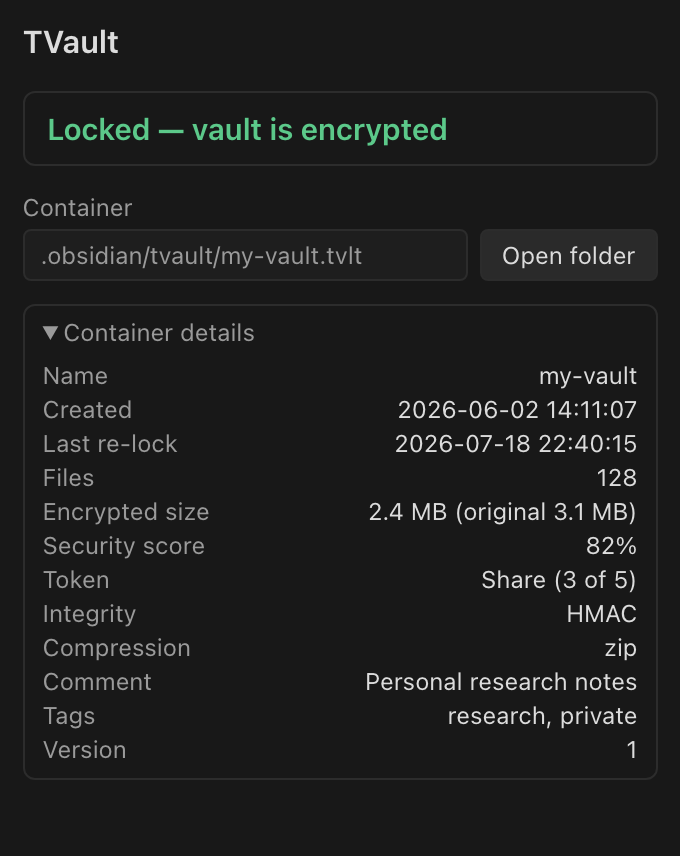
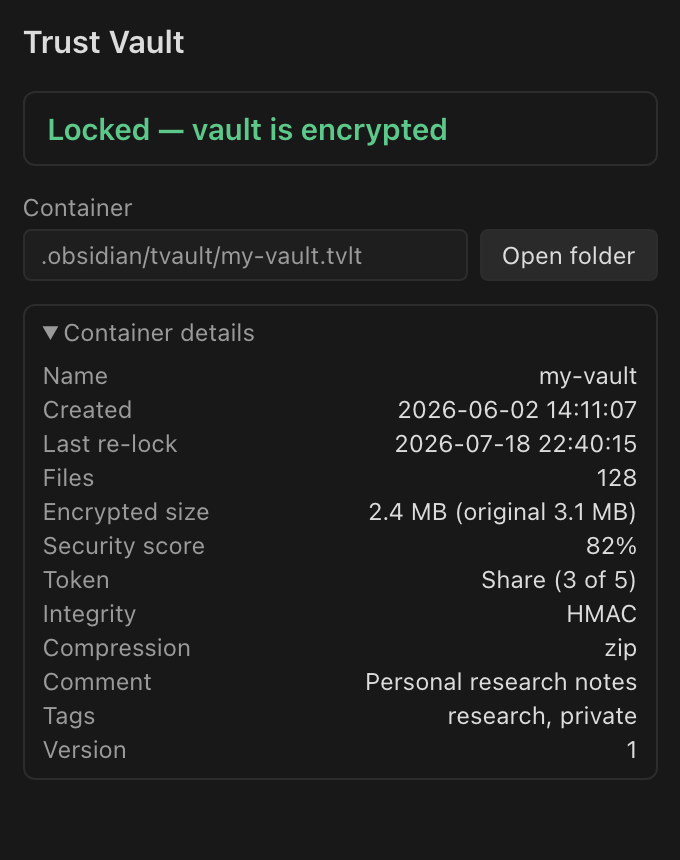
Release 0.2.3: display name "Trust Vault" (two words) + refreshed screenshots

diff --git a/src/plugin.ts b/src/plugin.ts
@@ -48,14 +48,14 @@ export default class TVaultPlugin extends Plugin {
   async onload(): Promise<void> {
     await this.loadSettings();
     this.statusEl = this.addStatusBarItem();
-    this.setStatus("TrustVault: ready");
+    this.setStatus("Trust Vault: ready");
 
     // Recover notes left in staging by an interrupted lock before anything else
     // touches the vault.
     await this.recoverStage();
 
     this.registerView(VIEW_TYPE_TVAULT, (leaf) => new TVaultView(leaf, this));
-    this.addRibbonIcon("shield", "Open TrustVault panel", () => {
+    this.addRibbonIcon("shield", "Open Trust Vault panel", () => {
       void this.activateView();
     });
 
@@ -103,7 +103,7 @@ export default class TVaultPlugin extends Plugin {
     if (!leaf) {
       const right = workspace.getRightLeaf(false);
       if (!right) {
-        new Notice("TrustVault: unable to open side panel");
+        new Notice("Trust Vault: unable to open side panel");
         return;
       }
       leaf = right;
@@ -199,12 +199,12 @@ export default class TVaultPlugin extends Plugin {
     }
     try {
       await unstageNotes(vaultPath);
-      new Notice("TrustVault: recovered notes from an interrupted lock");
+      new Notice("Trust Vault: recovered notes from an interrupted lock");
     } catch (error) {
       const message = errorMessage(error);
       // Persistent notice (timeout 0): the user must resolve this before data is safe.
-      new Notice(`TrustVault: could not fully recover staged notes — ${message}`, 0);
-      console.error("TrustVault recoverStage failed", error);
+      new Notice(`Trust Vault: could not fully recover staged notes — ${message}`, 0);
+      console.error("Trust Vault recoverStage failed", error);
     }
   }
 
@@ -218,7 +218,7 @@ export default class TVaultPlugin extends Plugin {
     try {
       await this.app.vault.adapter.write(this.statePath(), JSON.stringify(state, null, 2));
     } catch (error) {
-      console.error("TrustVault: failed to write state", error);
+      console.error("Trust Vault: failed to write state", error);
     }
   }
 
@@ -354,13 +354,13 @@ export default class TVaultPlugin extends Plugin {
     const cli = await this.resolveCli();
     const args = buildArgs(spec, vaultPath, containerPath);
 
-    this.setStatus(`TrustVault: ${spec.operation} 0%`);
+    this.setStatus(`Trust Vault: ${spec.operation} 0%`);
     try {
       const stdout = await this.spawnCli(cli, args, spec.folderPathOverride ?? vaultPath, spec);
-      this.setStatus(`TrustVault: ${spec.operation} done`);
+      this.setStatus(`Trust Vault: ${spec.operation} done`);
       return { tokens: extractTokenList(stdout), stdout };
     } catch (error) {
-      this.setStatus("TrustVault: error");
+      this.setStatus("Trust Vault: error");
       throw error;
     }
   }
@@ -370,7 +370,7 @@ export default class TVaultPlugin extends Plugin {
   // both proceed.
   private async withLock<T>(fn: () => Promise<T>): Promise<T> {
     if (this.running) {
-      throw new Error("A TrustVault operation is already running");
+      throw new Error("A Trust Vault operation is already running");
     }
     this.running = true;
     try {
@@ -402,7 +402,7 @@ export default class TVaultPlugin extends Plugin {
           const match = /^PROGRESS\s+(\d{1,3})$/.exec(line.trim());
           if (match) {
             const percent = Number.parseInt(match[1], 10);
-            this.setStatus(`TrustVault: ${spec.operation} ${percent}%`);
+            this.setStatus(`Trust Vault: ${spec.operation} ${percent}%`);
             spec.onProgress?.(percent);
           }
         }
@@ -651,8 +651,8 @@ export default class TVaultPlugin extends Plugin {
         // Restore plaintext so a failed lock never loses data.
         await unstageNotes(vaultPath).catch((restoreError) => {
           const message = errorMessage(restoreError);
-          console.error("TrustVault: failed to restore staged notes", restoreError);
-          new Notice(`TrustVault: ${message}`, 0);
+          console.error("Trust Vault: failed to restore staged notes", restoreError);
+          new Notice(`Trust Vault: ${message}`, 0);
         });
         throw error;
       }
@@ -777,7 +777,7 @@ export default class TVaultPlugin extends Plugin {
 
   private async commandLock(closeAfter: boolean): Promise<void> {
     if (this.running) {
-      new Notice("A TrustVault operation is already running");
+      new Notice("A Trust Vault operation is already running");
       return;
     }
     if (this.settings.confirmBeforeLock) {
@@ -795,7 +795,7 @@ export default class TVaultPlugin extends Plugin {
       }
     }
     const secret = await this.requestSecret(
-      "Lock TrustVault",
+      "Lock Trust Vault",
       "Enter the passphrase. Share/master vaults read tokens from the file path in settings.",
     );
     if (secret === null) {
@@ -805,28 +805,28 @@ export default class TVaultPlugin extends Plugin {
       const result = await this.lock(this.commandOpInput(secret));
       if (result.tokens && result.tokens.length > 0) {
         new Notice(
-          `TrustVault locked. ${result.tokens.length} token(s) written to the token file.`,
+          `Trust Vault locked. ${result.tokens.length} token(s) written to the token file.`,
         );
       } else {
-        new Notice("TrustVault: vault locked");
+        new Notice("Trust Vault: vault locked");
       }
       if (closeAfter) {
         window.setTimeout(() => window.close(), 250);
       }
     } catch (error) {
       const message = errorMessage(error);
-      new Notice(`TrustVault: ${message}`, 10000);
-      console.error("TrustVault lock failed", error);
+      new Notice(`Trust Vault: ${message}`, 10000);
+      console.error("Trust Vault lock failed", error);
     }
   }
 
   private async commandUnlock(): Promise<void> {
     if (this.running) {
-      new Notice("A TrustVault operation is already running");
+      new Notice("A Trust Vault operation is already running");
       return;
     }
     const secret = await this.requestSecret(
-      "Unlock TrustVault",
+      "Unlock Trust Vault",
       "Enter the passphrase. Share/master vaults read tokens from the file path in settings.",
     );
     if (secret === null) {
@@ -834,11 +834,11 @@ export default class TVaultPlugin extends Plugin {
     }
     try {
       await this.unlock(this.commandOpInput(secret));
-      new Notice("TrustVault: vault unlocked");
+      new Notice("Trust Vault: vault unlocked");
     } catch (error) {
       const message = errorMessage(error);
-      new Notice(`TrustVault: ${message}`, 10000);
-      console.error("TrustVault unlock failed", error);
+      new Notice(`Trust Vault: ${message}`, 10000);
+      console.error("Trust Vault unlock failed", error);
     }
   }
 }

diff --git a/src/view.ts b/src/view.ts
@@ -47,7 +47,7 @@ export class TVaultView extends ItemView {
   }
 
   getDisplayText(): string {
-    return "TrustVault";
+    return "Trust Vault";
   }
 
   getIcon(): string {
@@ -112,7 +112,7 @@ export class TVaultView extends ItemView {
     const root = this.contentEl;
     root.empty();
     root.addClass("tvault-panel");
-    root.createEl("h3", { text: "TrustVault" });
+    root.createEl("h3", { text: "Trust Vault" });
 
     if (this.statusError) {
       root.createEl("p", { cls: "tvault-danger", text: this.statusError });
@@ -271,7 +271,7 @@ export class TVaultView extends ItemView {
             "Token file path",
             this.tokenFilePath,
             (v) => (this.tokenFilePath = v),
-            "~/TrustVault/my-vault.keys.json",
+            "~/Trust Vault/my-vault.keys.json",
           );
         } else {
           this.renderTokenInputs(root);
@@ -571,9 +571,9 @@ export class TVaultView extends ItemView {
     let target: string | null = null;
     try {
       const result = await dialog.showSaveDialog({
-        title: "Save TrustVault tokens",
+        title: "Save Trust Vault tokens",
         defaultPath,
-        filters: [{ name: "TrustVault tokens", extensions: ["json"] }],
+        filters: [{ name: "Trust Vault tokens", extensions: ["json"] }],
       });
       target = result && !result.canceled && result.filePath ? result.filePath : null;
     } catch {
@@ -635,7 +635,7 @@ export class TVaultView extends ItemView {
       return;
     }
     if (this.plugin.isRunning()) {
-      new Notice("A TrustVault operation is already running");
+      new Notice("A Trust Vault operation is already running");
       return;
     }
 
@@ -692,18 +692,18 @@ export class TVaultView extends ItemView {
         // the same shares, so don't re-surface them.
         this.generatedTokens = result.operation === "seal" ? result.tokens : null;
         this.statusLine = "Locked";
-        new Notice("TrustVault: vault locked");
+        new Notice("Trust Vault: vault locked");
       } else {
         await this.plugin.unlock(this.opInput());
         this.statusLine = "Unlocked";
         this.tokenInputs = [];
-        new Notice("TrustVault: vault unlocked");
+        new Notice("Trust Vault: vault unlocked");
       }
     } catch (error) {
       const message = errorMessage(error);
       this.statusLine = `Error: ${message}`;
-      new Notice(`TrustVault: ${message}`, 10000);
-      console.error("TrustVault panel action failed", error);
+      new Notice(`Trust Vault: ${message}`, 10000);
+      console.error("Trust Vault panel action failed", error);
     } finally {
       this.busy = false;
       await this.refresh();

diff --git a/src/dialogs.ts b/src/dialogs.ts
@@ -63,9 +63,9 @@ export async function browseForContainer(defaultPath: string): Promise<string | 
   if (dialog) {
     try {
       const result = await dialog.showSaveDialog({
-        title: "Choose TrustVault container location",
+        title: "Choose Trust Vault container location",
         defaultPath: defaultPath || undefined,
-        filters: [{ name: "TrustVault container", extensions: ["tvlt"] }],
+        filters: [{ name: "Trust Vault container", extensions: ["tvlt"] }],
       });
       return result && !result.canceled && result.filePath ? result.filePath : null;
     } catch {
@@ -89,7 +89,7 @@ export async function browseForExistingFile(
         title,
         defaultPath: defaultPath || undefined,
         properties: ["openFile"],
-        filters: [{ name: "TrustVault tokens", extensions }],
+        filters: [{ name: "Trust Vault tokens", extensions }],
       });
       return result && !result.canceled && result.filePaths && result.filePaths[0]
         ? result.filePaths[0]

diff --git a/src/cli.ts b/src/cli.ts
@@ -38,7 +38,7 @@ export async function downloadCli(name: string, dest: string): Promise<void> {
     throw new Error("No tvault-core release is pinned; set the executable path in settings");
   }
   const url = `https://github.com/${TVAULT_CLI_REPO}/releases/download/${TVAULT_CLI_VERSION}/${name}`;
-  const notice = new Notice(`TrustVault: downloading tvault-core (${name})…`, 0);
+  const notice = new Notice(`Trust Vault: downloading tvault-core (${name})…`, 0);
   try {
     // Use Obsidian's requestUrl (routed through the main process) rather than
     // fetch(): the renderer's origin (app://obsidian.md) makes a cross-origin

diff --git a/src/paths.ts b/src/paths.ts
@@ -17,7 +17,7 @@ export class VaultPaths {
   getVaultPath(): string {
     const adapter = this.app.vault.adapter as { getBasePath?: () => string };
     if (!adapter.getBasePath) {
-      throw new Error("TrustVault requires Obsidian desktop with a local filesystem vault");
+      throw new Error("Trust Vault requires Obsidian desktop with a local filesystem vault");
     }
     return path.resolve(adapter.getBasePath());
   }

diff --git a/src/staging.ts b/src/staging.ts
@@ -70,7 +70,7 @@ export async function unstageNotes(vaultPath: string): Promise<void> {
     try {
       await rename(path.join(stageDir, name), target);
     } catch (error) {
-      console.error(`TrustVault: failed to restore ${name}`, error);
+      console.error(`Trust Vault: failed to restore ${name}`, error);
       failed.push(name);
     }
   }

diff --git a/src/types.ts b/src/types.ts
@@ -1,4 +1,4 @@
-// Shared types, constants, and defaults for the TrustVault plugin.
+// Shared types, constants, and defaults for the Trust Vault plugin.
 
 export type TokenType = "share" | "master" | "none";
 export type IntegrityType = "hmac" | "none";

diff --git a/README.md b/README.md
@@ -1,4 +1,4 @@
-# TrustVault for Obsidian
+# Trust Vault for Obsidian
 
 Desktop-only Obsidian plugin that wraps the `tvault-core` CLI and turns a vault
 into a lockable safe: **Lock** encrypts your notes into a container and removes
@@ -11,7 +11,7 @@ Website: [tvault.app](https://tvault.app)
 **Side panel** — the current state and one primary action (lock when unlocked,
 unlock when locked):
 
-![TrustVault side panel](docs/screenshots/panel.png)
+![Trust Vault side panel](docs/screenshots/panel.png)
 
 **Generated tokens** — save the Shamir shares to a file, or copy each share
 individually:
@@ -41,8 +41,8 @@ cycle.
 
 ## Side panel
 
-Open the **TrustVault** side panel from the ribbon (shield icon) or the
-**TrustVault: Open TrustVault panel** command. It shows the current state and one
+Open the **Trust Vault** side panel from the ribbon (shield icon) or the
+**Trust Vault: Open Trust Vault panel** command. It shows the current state and one
 primary action:
 
 - When **unlocked**, the button **locks** the vault (first lock creates the
@@ -82,10 +82,10 @@ plaintext is kept.
 
 ## Commands
 
-- **TrustVault: Open TrustVault panel** — open the side panel.
-- **TrustVault: Lock vault** — encrypt notes and remove plaintext.
-- **TrustVault: Unlock vault** — restore notes from the container.
-- **TrustVault: Lock and close vault** — lock, then close the Obsidian window.
+- **Trust Vault: Open Trust Vault panel** — open the side panel.
+- **Trust Vault: Lock vault** — encrypt notes and remove plaintext.
+- **Trust Vault: Unlock vault** — restore notes from the container.
+- **Trust Vault: Lock and close vault** — lock, then close the Obsidian window.
 
 Command-palette actions use a single passphrase (reused for container and
 integrity) and read/write tokens via the token-file path in settings. The side
@@ -132,7 +132,7 @@ Releasing a new CLI version:
 ## Install (manual / BRAT)
 
 Copy `manifest.json`, `main.js`, and `styles.css` into
-`<vault>/.obsidian/plugins/tvault/`, then enable **TrustVault** in Obsidian's
+`<vault>/.obsidian/plugins/tvault/`, then enable **Trust Vault** in Obsidian's
 community-plugin settings. The binary downloads on first use.
 
 ## Configuration

diff --git a/CHANGELOG.md b/CHANGELOG.md
@@ -1,9 +1,18 @@
 # Changelog
 
-All notable changes to the TrustVault Obsidian plugin are documented in this file.
+All notable changes to the Trust Vault Obsidian plugin are documented in this file.
 
 The format is based on [Keep a Changelog](https://keepachangelog.com/en/1.1.0/),
 and this project adheres to [Semantic Versioning](https://semver.org/spec/v2.0.0.html).
+
+## [0.2.3] — 2026-07-20
+
+### Changed
+
+- The display name is now written **Trust Vault** (two words) everywhere it is
+  shown — the plugin name, side panel, status bar, ribbon tooltip, notices and
+  dialogs. The plugin id and on-disk container format are unchanged.
+- Refreshed the README screenshots for the new name.
 
 ## [0.2.2] — 2026-07-20
 
@@ -94,6 +103,7 @@ plugin) is always preserved.
 - Desktop only — the plugin runs a native binary.
 - Obsidian 1.7.2 or newer.
 
+[0.2.3]: https://github.com/namelesscorp/tvault-obsidian-plugin/releases/tag/0.2.3
 [0.2.2]: https://github.com/namelesscorp/tvault-obsidian-plugin/releases/tag/0.2.2
 [0.2.1]: https://github.com/namelesscorp/tvault-obsidian-plugin/releases/tag/0.2.1
 [0.2.0]: https://github.com/namelesscorp/tvault-obsidian-plugin/releases/tag/0.2.0

diff --git a/docs/PUBLISHING.md b/docs/PUBLISHING.md
@@ -1,4 +1,4 @@
-# Publishing TrustVault to the Obsidian community plugins
+# Publishing Trust Vault to the Obsidian community plugins
 
 ## 1. Release artifacts
 
@@ -23,7 +23,7 @@ previous entry), then open a PR:
 ```json
 {
   "id": "tvault",
-  "name": "TrustVault",
+  "name": "Trust Vault",
   "author": "Nameless Corp",
   "description": "Lock your notes into an encrypted container and unlock them again, powered by the tvault-core CLI.",
   "repo": "namelesscorp/tvault-obsidian-plugin"
@@ -47,11 +47,11 @@ what you actually create). `id` must equal `manifest.json.id` (`tvault`).
 
 ## 4. Draft PR
 
-**Title:** `Add plugin: TrustVault`
+**Title:** `Add plugin: Trust Vault`
 
 **Body:**
 
-> ### TrustVault
+> ### Trust Vault
 >
 > Turns an Obsidian vault into a lockable encrypted safe. **Lock** compresses and
 > encrypts your notes into a `tvault-core` container and removes the plaintext;